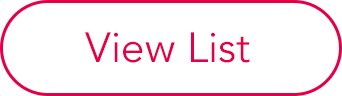
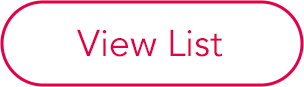
Fixed Urgent care search UI

Changed region(s): [[0.0, 0.0, 1.0, 1.0], [0.2368, 0.3218, 0.7401, 0.6667]]

diff --git a/FloridaBlue/App/Containers/MemberDashBoard/Containers/OPD/ProviderSearch/ProviderSearch.js b/FloridaBlue/App/Containers/MemberDashBoard/Containers/OPD/ProviderSearch/ProviderSearch.js
@@ -24,7 +24,7 @@ import I18n from 'react-native-i18n'
 import { Colors, Metrics, Fonts, Images } from '../../../../../Themes'
 import Flb from '../../../../../Themes/FlbIcon'
 import { connect } from 'react-redux'
-import { Container, Content, Footer, FooterTab, Radio, Button, Fab } from 'native-base'
+import { Container, Content, Footer, FooterTab, Radio, Button, Fab, Card } from 'native-base'
 import { MKTextField, MKColor, MKSpinner, MKRadioButton, getTheme } from 'react-native-material-kit'
 import HideableView from 'react-native-hideable-view'
 import ModalDropdown from 'react-native-modal-dropdown'
@@ -426,12 +426,13 @@ const SingleColorSpinner = MKSpinner.singleColorSpinner()
 
         {
           this.state.floatClicked ? 
-          <View style={{ width: Metrics.screenWidth * 0.85, 
+          <Card style={{ width: Metrics.screenWidth * 0.9, 
                          height: Metrics.screenWidth * 0.86,
                          flex:1, 
-                         borderWidth: 1, 
+                         backgroundColor:Colors.transparent,
+                        // borderWidth: 1, 
                          borderRadius: Metrics.screenWidth * 1,
-                         borderColor: '#708090',
+                        // borderColor: '#708090',
                          position: 'absolute',
                          bottom: -Metrics.textHeight1 * Metrics.screenWidth * 0.005,
                          right: -Metrics.textHeight2 * Metrics.screenWidth * 0.0035,
@@ -450,7 +451,8 @@ const SingleColorSpinner = MKSpinner.singleColorSpinner()
                            marginLeft: Metrics.textHeight * Metrics.screenWidth * 0.0028}}>
                            Need Help Now? </Text>
             <Text style={{ textAlign: 'left', 
-                           marginTop: 15, 
+                           marginTop: 15,
+                           color:Colors.flBlue.anvil, 
                            fontSize: Fonts.size.xr * Metrics.screenWidth * 0.0028,  
                            marginLeft: Metrics.textHeight * Metrics.screenWidth * 0.0028, 
                            marginRight: Metrics.textHeight * Metrics.screenWidth * 0.0055
@@ -459,7 +461,7 @@ const SingleColorSpinner = MKSpinner.singleColorSpinner()
                   <Image source={Images.viewListButton} style={styles.viewListButton} />
                 </TouchableOpacity>
            
-          </View>
+          </Card>
         : null
         }
 

diff --git a/FloridaBlue/App/Containers/MemberDashBoard/Containers/OPD/ProviderSearch/ProviderSearchStyle.js b/FloridaBlue/App/Containers/MemberDashBoard/Containers/OPD/ProviderSearch/ProviderSearchStyle.js
@@ -93,15 +93,18 @@ export default StyleSheet.create({
     height: Metrics.screenHeight * 0.064
   },
   viewListResults: {
-    marginTop: Metrics.mediumMargin,
+    marginTop: Metrics.baseMargin * Metrics.screenHeight * 0.002,
+    backgroundColor:Colors.transparent,
     marginLeft:Metrics.doubleBaseMargin * Metrics.screenWidth * 0.0035,
     marginBottom:0,
     justifyContent: 'center',
   },
   viewListButton: {
-    width: Metrics.doubleBaseMargin * Metrics.screenWidth * 0.02,
-    borderRadius: Metrics.mediumMargin * Metrics.screenWidth * 0.0010,
-    height: Metrics.section * Metrics.screenHeight * 0.0025
+    width: Metrics.mediumMargin * Metrics.screenWidth * 0.03,
+    backgroundColor:Colors.transparent,
+    resizeMode:'contain',
+    borderRadius: Metrics.mediumMargin * Metrics.screenWidth * 0.0015,
+    height: Metrics.doubleBaseMargin * Metrics.screenHeight * 0.0036
   },
   advancedSearchLink: {
     marginTop: Metrics.doubleBaseMargin * 2,
